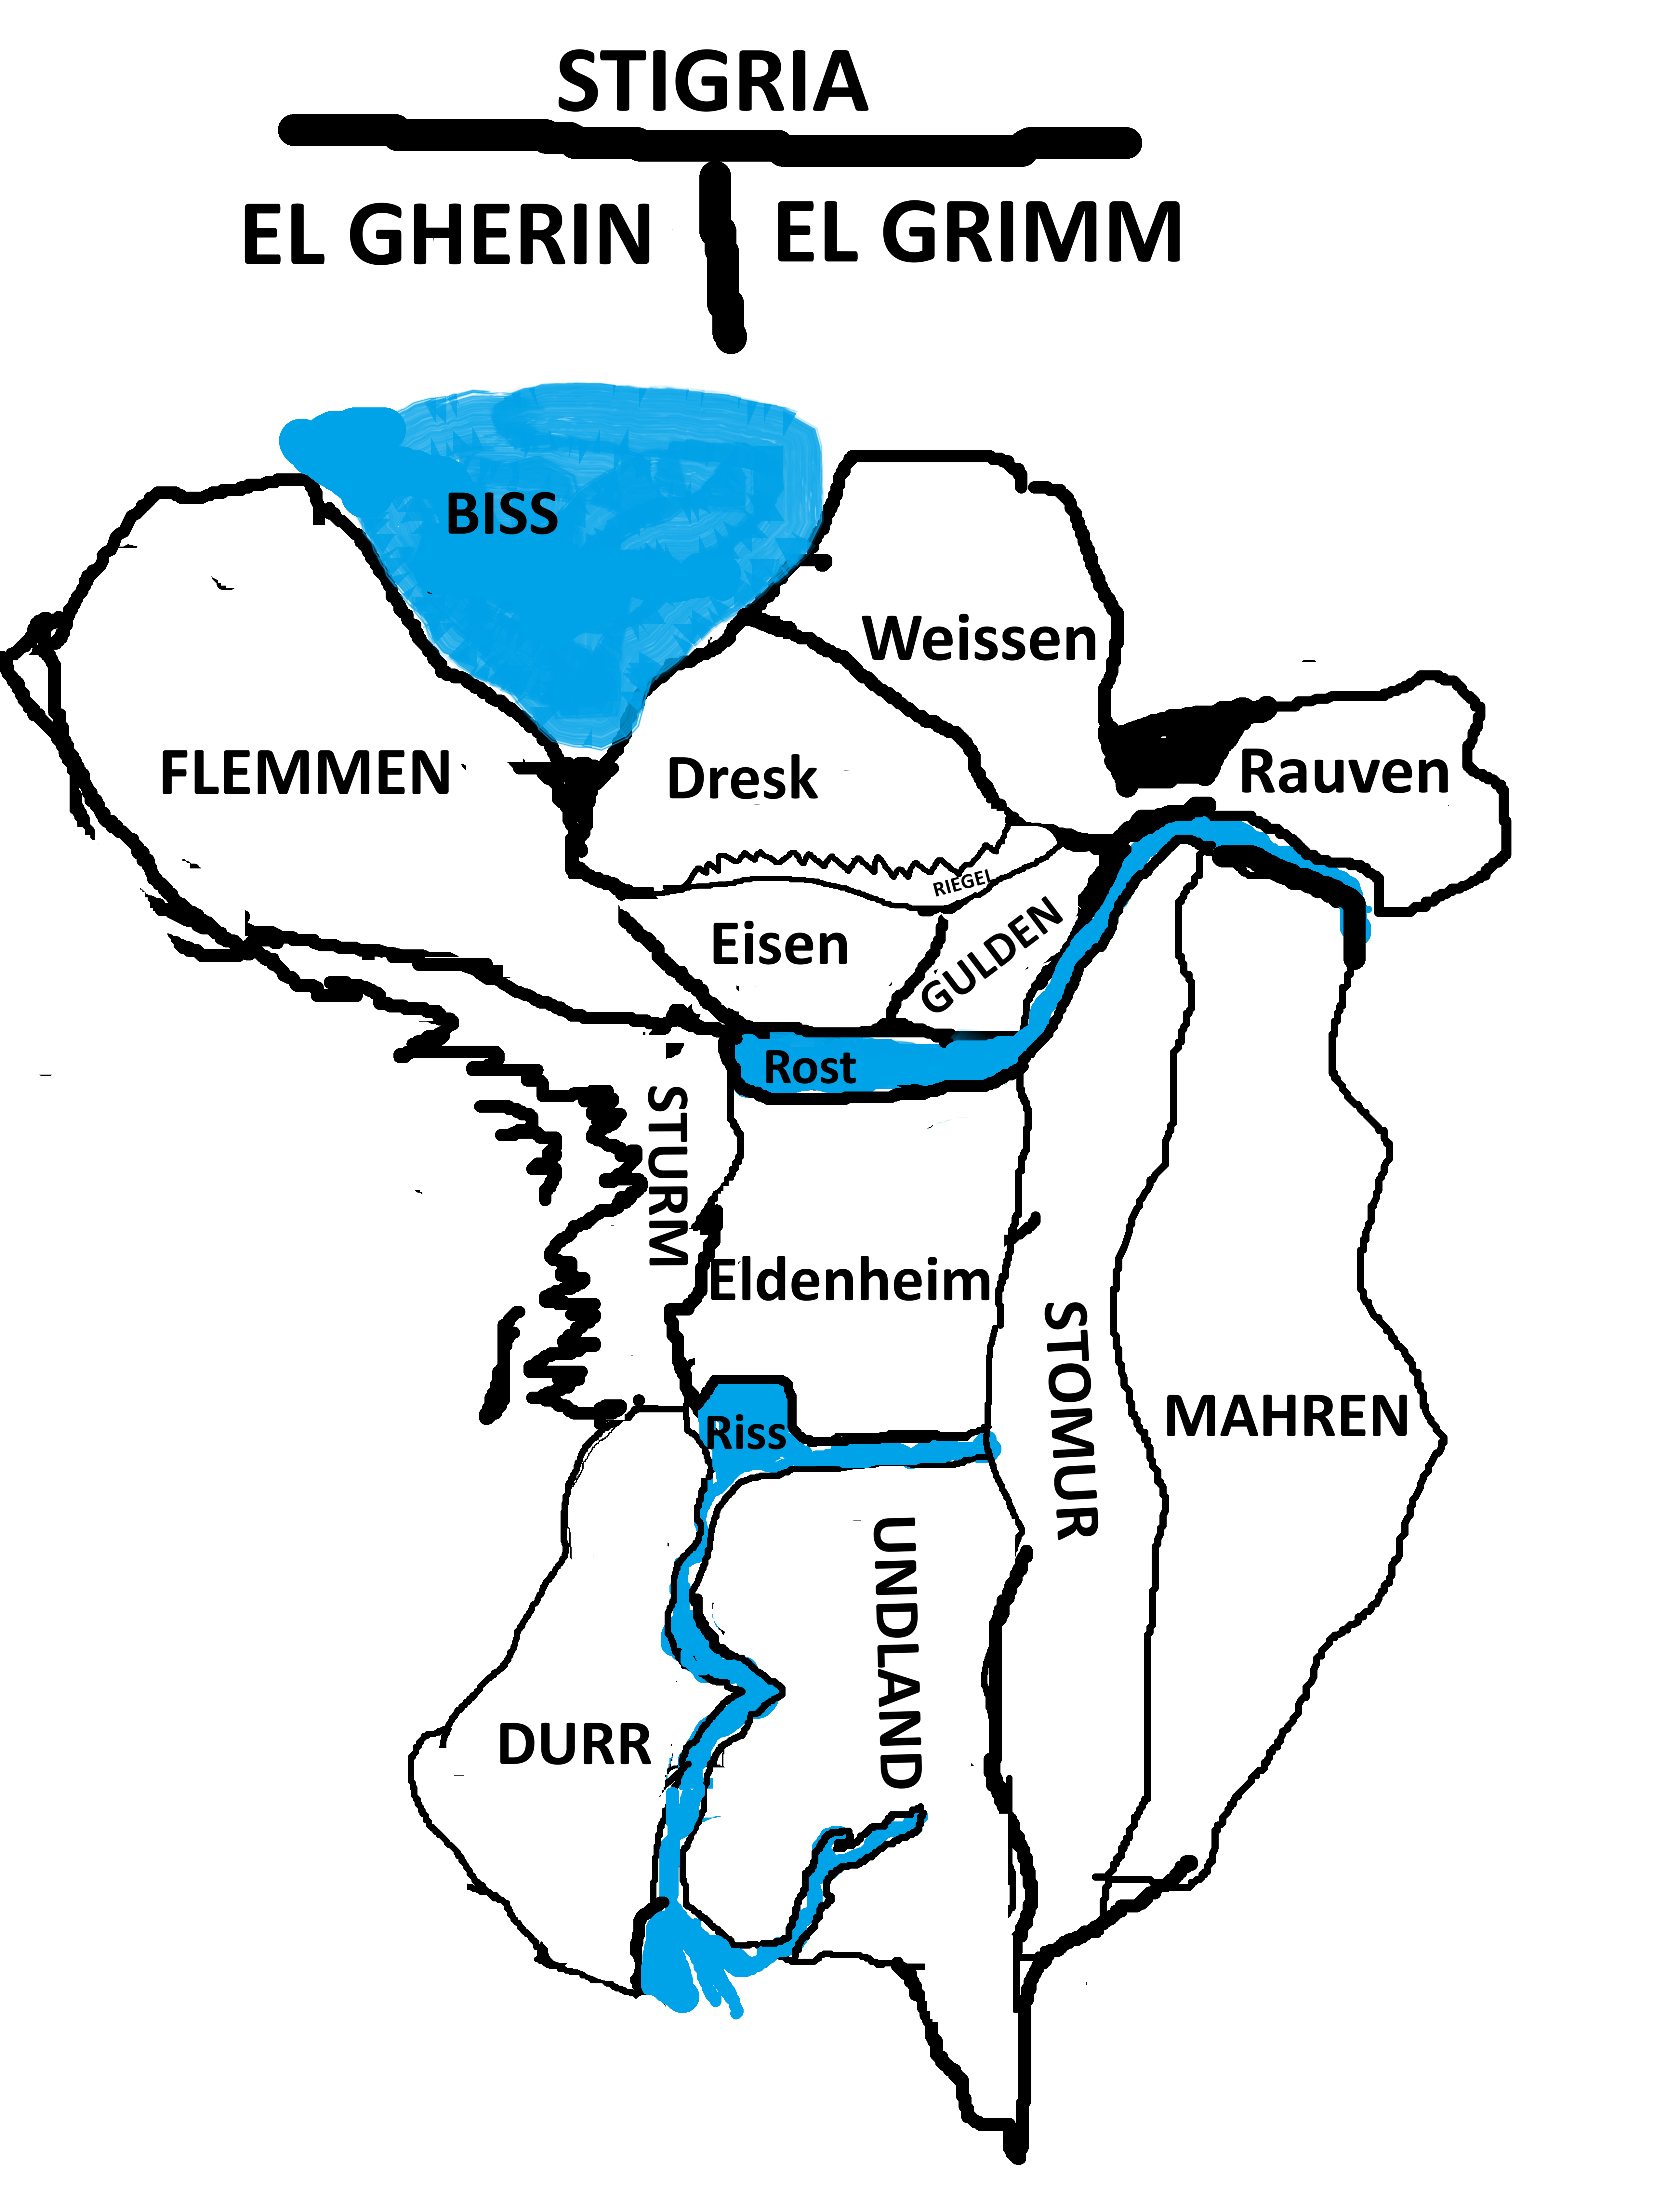
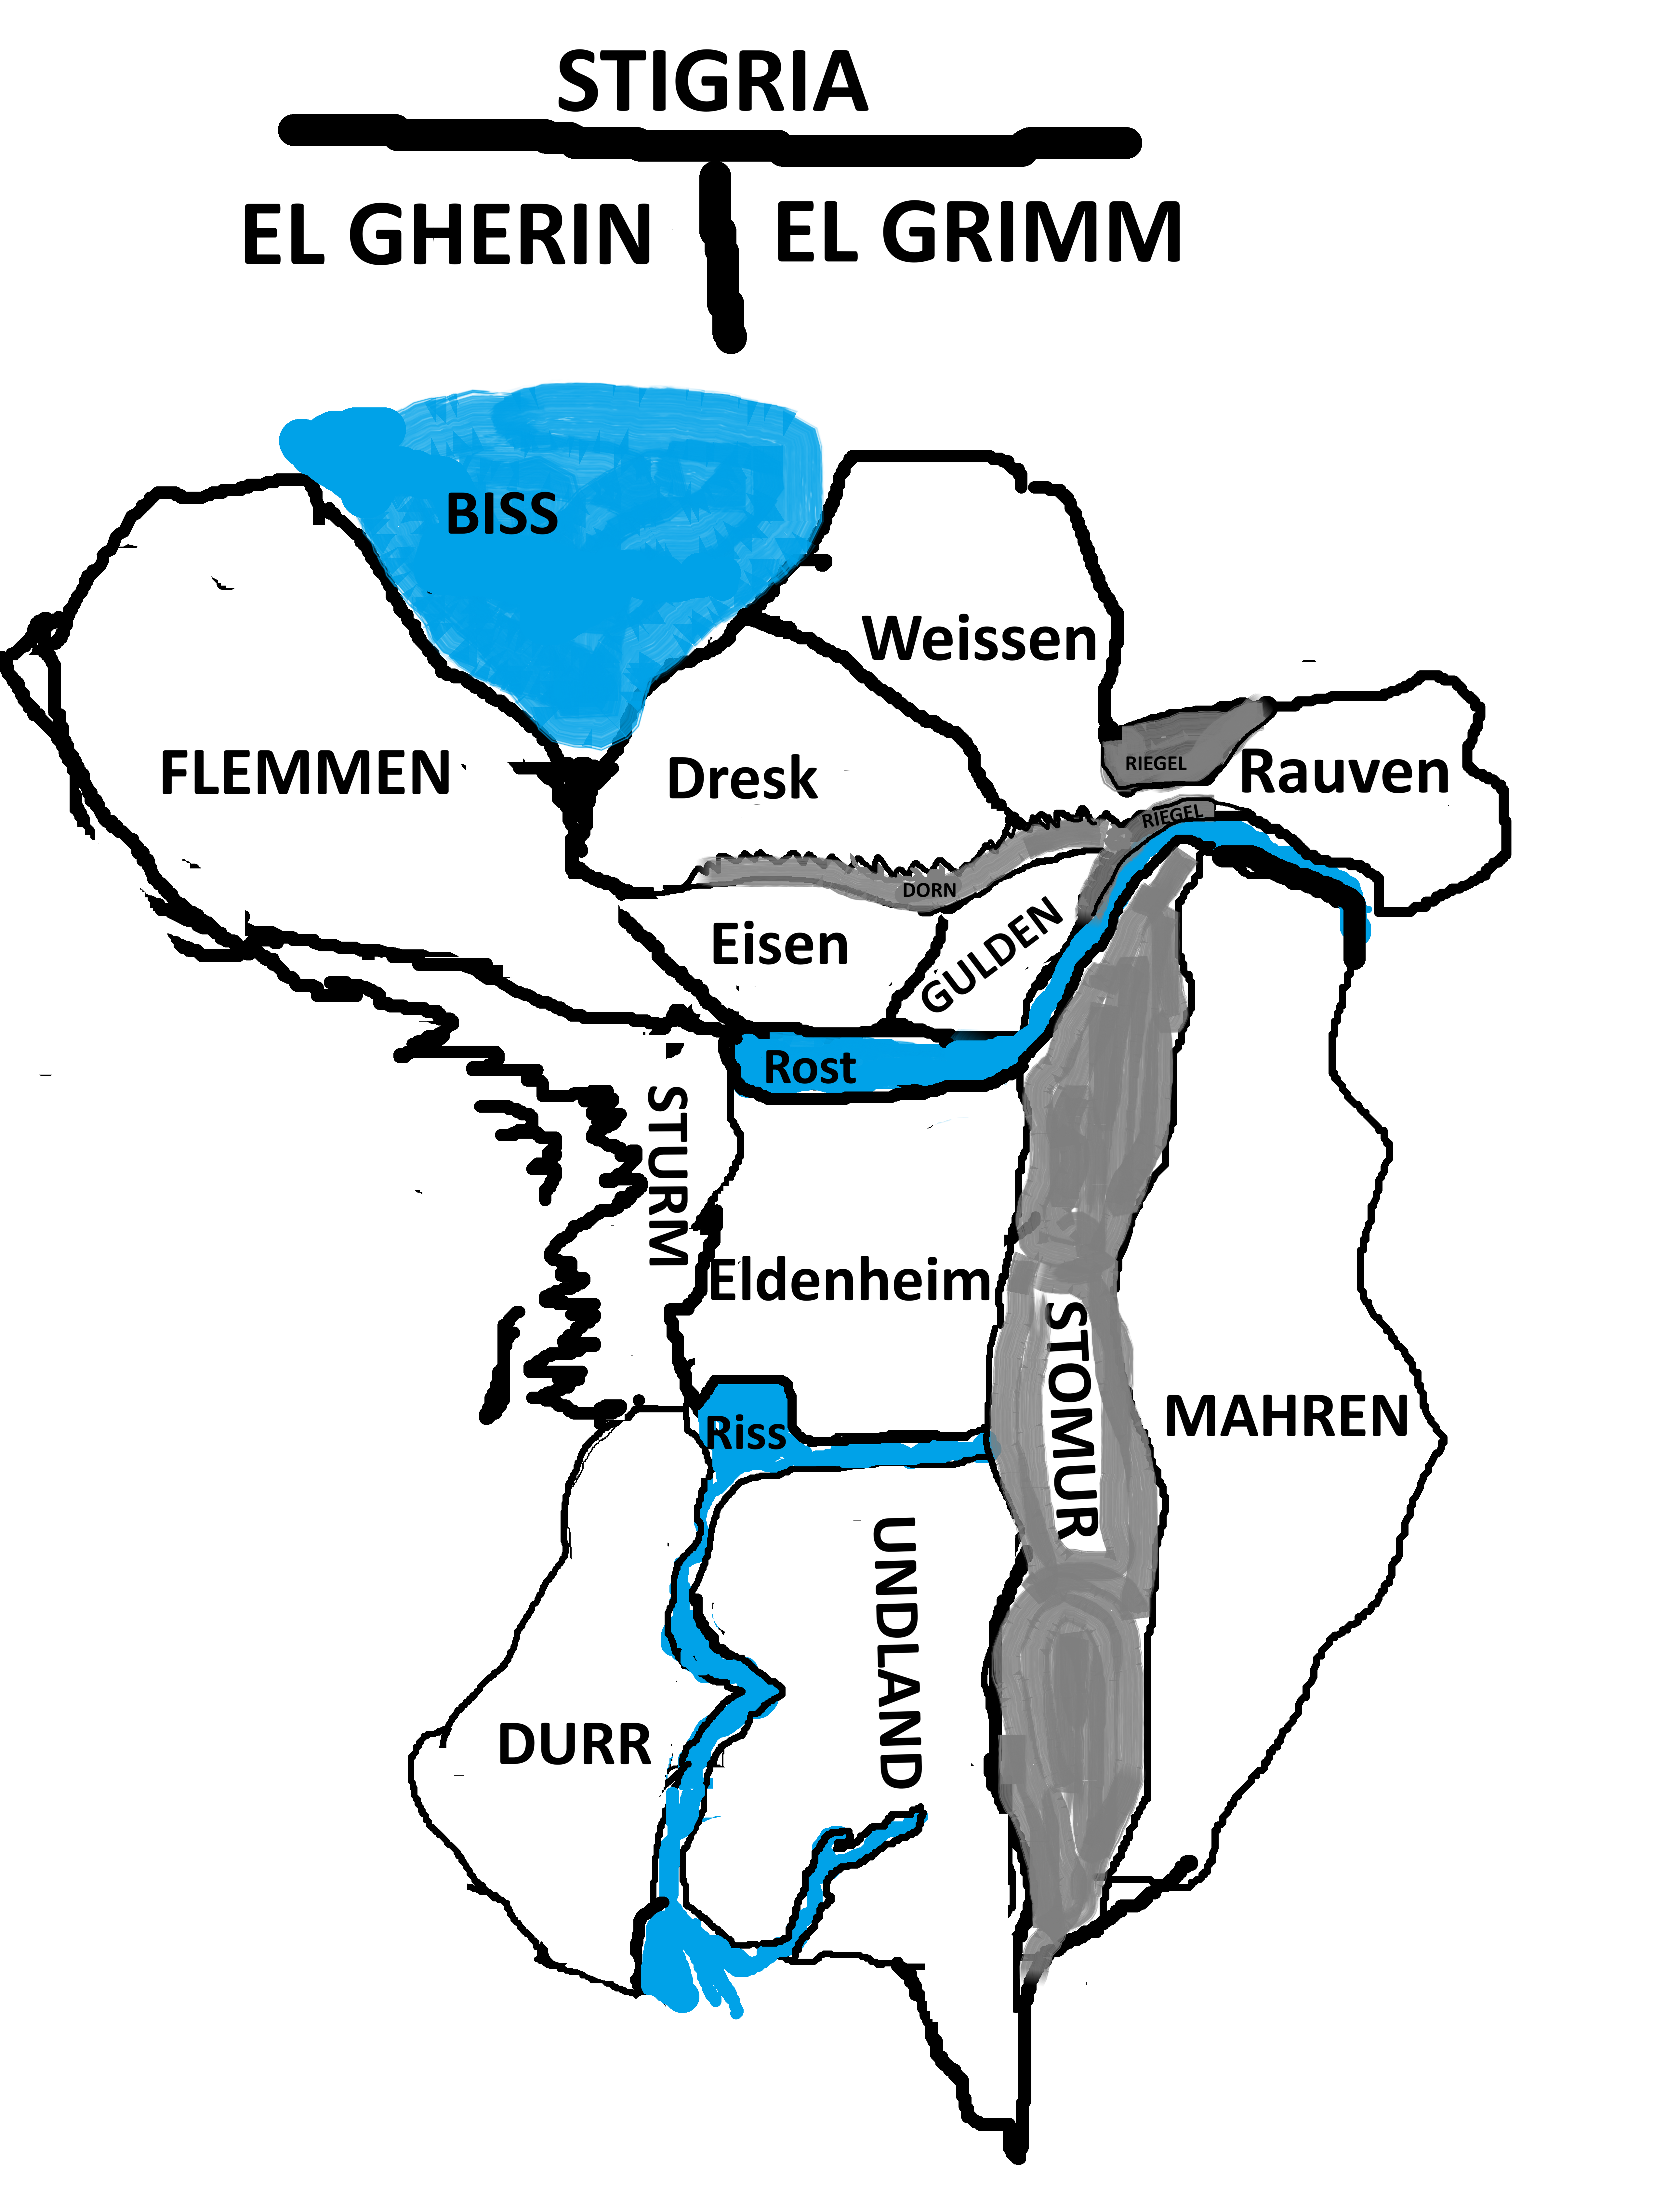
Crónica: El Grimm renace como costa y reino
Por decreto imperial, el nombre de la vasta y sombría región al este de la cordillera Stomur, antes conocida como El Modrig, ha sido cambiado oficialmente a El Grimm. Este topónimo, más acorde con su naturaleza y con la historia de sus habitantes originales, los Gente de la Bruma, se integra ahora en los anales del Imperio. Asimismo, se ha documentado la creación del nuevo reino de Grimm, fusionando las antiguas tierras del Modrig y el territorio de Malakia, marcando un nuevo capítulo en la cartografía y la geopolítica de Stigria.

Changed region(s): [[0.4051, 0.312, 0.7478, 0.9049]]

diff --git a/docs/mundo/stigria/gherin-tablero.md b/docs/mundo/stigria/gherin-tablero.md
@@ -8,21 +8,21 @@ Cada reino ocupa un bloque de celdas (la mayoría 3×3, algunos expandidos o red
 
 ```
        1a  1b  1c │ 2a  2b  2c │ 3a  3b  3c  │  4a   4b   4c  │ 5a  5b  5c
-A1    Fl  Fl  Fl │ Fl  Fl  Fl │ ≈≈  ≈≈  ≈≈  │  Vk   Vk   Es★ │ Mal  Mal  Mod
-A2    Fl  Fl* Fl │ Fl  Fl  Fl │ ≈≈  Pen ≈≈  │  Vk   Vk*  Vk  │ Bra  --   Mod
-A3    Fl  Fl  Fl │ Fl  Fl  Fl │ ≈≈  Pen ≈≈  │  Sd   Sd*  Sd  │ Mal  Mal  Mod
+A1    Fl  Fl  Fl │ Fl  Fl  Fl │ ≈≈  ≈≈  ≈≈  │  Vk   Vk   Es★ │ Mal  Mal  Gri
+A2    Fl  Fl* Fl │ Fl  Fl  Fl │ ≈≈  Pen ≈≈  │  Vk   Vk*  Vk  │ Bra  --   Gri
+A3    Fl  Fl  Fl │ Fl  Fl  Fl │ ≈≈  Pen ≈≈  │  Sd   Sd*  Sd  │ Mal  Mal  Gri
 ──────┼──────────┼───────────┼──────────────┼─────┬───────────┼─────────────
-B1    St  St  St │ Sk  Sk  Sk │ Wf  Wf  Wf  │ Est  Est  Est   │ Mod  Mod  Mod
-B2    St  St* St │ Sk  Sk* Sk │ Wf  Wf* Wf  │ Est  Est  Est   │ Mod  Mod  Mod
-B3    St  St  St │ Sk  Sk  Sk │ Wf  Eld  Dr▲ │ Est  Est  Est   │ Mod  Mod  Mod
+B1    St  St  St │ Sk  Sk  Sk │ Wf  Wf  Wf  │ Est  Est  Est   │ Gri  Gri  Gri
+B2    St  St* St │ Sk  Sk* Sk │ Wf  Wf* Wf  │ Est  Est  Est   │ Gri  Gri  Gri
+B3    St  St  St │ Sk  Sk  Sk │ Wf  Eld  Dr▲ │ Est  Est  Est   │ Gri  Gri  Gri
 ──────┼──────────┼───────────┼──────────────┼─────────────────┼─────────────
-C1    Lm  Lm  Lm │ Vs  Vs  Vs │ Au  Eld  Eld │ Est  Est  Est   │ Mod  Mod  Mod
-C2    Lm  Lm* Lm │ Vs  Vs* Vs │ Eld▼ Eld Eld │ Est  Est  Est   │ Mod  Mod  Mod
-C3    Lm  Lm  Lm │ Vs  Vs  Vs │ Au  Au  Au  │ Est  Est  Est   │ Mod  Mod  Mod
+C1    Lm  Lm  Lm │ Vs  Vs  Vs │ Au  Eld  Eld │ Est  Est  Est   │ Gri  Gri  Gri
+C2    Lm  Lm* Lm │ Vs  Vs* Vs │ Eld▼ Eld Eld │ Est  Est  Est   │ Gri  Gri  Gri
+C3    Lm  Lm  Lm │ Vs  Vs  Vs │ Au  Au  Au  │ Est  Est  Est   │ Gri  Gri  Gri
 ──────┼──────────┼───────────┼──────────────┼─────────────────┼─────────────
-D1    Zf  Zf  Zf │ El  El  El │ Yl  Yl  Yl  │ Est  Est  Est   │ Mod  Mod  Mod
-D2    Zf  Zf* Zf │ El  El* El │ Yl  Yl* Yl  │ Est  Est  Est   │ Mod  Mod  Mod
-D3    Zf  Zf  Zf │ El  El  El │ Yl  Yl  Ka★ │ Est  Est  Est   │ Mod  Mod  Mod
+D1    Zf  Zf  Zf │ El  El  El │ Yl  Yl  Yl  │ Est  Est  Est   │ Gri  Gri  Gri
+D2    Zf  Zf* Zf │ El  El* El │ Yl  Yl* Yl  │ Est  Est  Est   │ Gri  Gri  Gri
+D3    Zf  Zf  Zf │ El  El  El │ Yl  Yl  Ka★ │ Est  Est  Est   │ Gri  Gri  Gri
 ```
 
 | Símbolo | Significado |
@@ -38,7 +38,7 @@ D3    Zf  Zf  Zf │ El  El  El │ Yl  Yl  Ka★ │ Est  Est  Est   │ Mod  M
 | `Pen` | Península septentrional |
 | `--` | Fuera de cuadrícula / sin asignar |
 | `Est` | Cordillera Stomur |
-| `Mod` | El Modrig (mitad oriental maldita) |
+| `Gri` | El Grimm (mitad oriental maldita) |
 | `Bra` | El Bramo (reducto de Rey Podrido) |
 | `Mal` | Malakia (reino histórico partido) |
 
@@ -286,7 +286,7 @@ Bloque: filas B1-D3, columnas 4a-4c (9 celdas, vertical).
 | B1-4c | NE | Grieta del Este | Abismo oriental |
 | B2-4a | O | Laderas de Hierro | Falda occidental (lado Waffengard) |
 | B2-4b | * | Corazón de Stomur | Núcleo de la cordillera |
-| B2-4c | E | Laderas Umbrías | Falda oriental (lado Modrig) |
+| B2-4c | E | Laderas Umbrías | Falda oriental (lado Grimm) |
 | C1-4a | O | Paso de los Mercaderes | Ruta comercial oeste-este |
 | C3-4b | S | Stomur Bajo | Estribaciones meridionales |
 | D3-4c | SE | Raíz Partida | Extremo sureste de la cordillera |
@@ -303,7 +303,7 @@ Bloque: filas A1-A3, columnas 5a-5b (parcial). Al otro lado del Foso.
 | A2-5a | * | El Bramo | Trono de Rey Podrido |
 | A3-5a | S | Malakia Sur | Tierras anegadas |
 
-> Malakia ocupa la franja 5a-5b en filas A1 y A3. El Bramo solo la celda A2-5a. La columna 5c pertenece a El Modrig.
+> Malakia ocupa la franja 5a-5b en filas A1 y A3. El Bramo solo la celda A2-5a. La columna 5c pertenece al Grimm.
 
 ### Protectorados
 
@@ -332,11 +332,11 @@ Bloque: celdas dispersas entre Waffengard, Aurelia y Stomur.
 
 > **Eldengaria original (Eld▼).** Los vestigios de la antigua Eldengard —corazón del Valgard pre-imperial— se conservan como barrio histórico envuelto por la expansión de la capital moderna. Los reyes de los 12 Reinos residen aquí cuando visitan la ciudad.
 
-### El Modrig [Mod]
+### El Grimm [Gri]
 
 Bloque: filas A1-D3, columnas 5a-5c (12 celdas, vertical). Tierra maldita al este de Stomur. Sin detallar en este tablero.
 
-> Ver `docs/mundo/stigria/modrig.md`.
+> Ver `docs/mundo/stigria/grimm.md`.
 
 ---
 

diff --git a/docs/mundo/stigria/grimm.md b/docs/mundo/stigria/grimm.md
@@ -1,0 +1,32 @@
+# El Grimm
+
+## Tipo
+
+Macrorregión oriental de Stigria.
+
+## Ubicación
+
+El Grimm ocupa las tierras situadas al este de Stomur. Comprende **Rauven** al noreste y **Mahren** a lo largo de la gran franja oriental. En el norte, la fractura de Stomur y el curso del Rost forman el Paso del Oriente, que comunica el Grimm con el Gherin.
+
+El Bramo se encuentra en el sector septentrional de esta mitad del continente. Hacia el sur, una costa fragmentada de canales, islotes y fiordos lo comunica con el resto del Grimm.
+
+## Historia antigua
+
+Según la tradición gheran, Ghera y Smürr obligaron a la mayoría de los Grimmen a retirarse hacia estas tierras durante la Gran Devoración. Stomur separó desde entonces el Grimm del Gherin, aunque algunas criaturas permanecieron en el occidente.
+
+Durante el Surgimiento, la sección septentrional de Stomur se fracturó. La abertura separó Rauven de Mahren y permitió que las aguas del Rost alcanzaran el mar oriental.
+
+## Historia posterior
+
+Malakia prosperó posteriormente en tierras del Grimm. Tras el ascenso del Rey Podrido, la Sombra y sus criaturas corrompieron grandes extensiones de la región. El Bramo permanece bajo su dominio y los fiordos fragmentados sirven como vía de tránsito para las criaturas del este.
+
+La **Mørkkyst**, o Costa Negra, es el nombre tradicional de las tierras del Grimm habitadas durante milenios por los Kystvaer antes de su migración hacia el Gherin.
+
+## Referencias
+
+- `docs/mundo/stigria/stigria.md`
+- `docs/mundo/stigria/stomur.md`
+- `docs/mundo/stigria/historia-antigua.md`
+- `docs/mundo/stigria/bramo.md`
+- `docs/mundo/stigria/malakia.md`
+

diff --git a/docs/12-reinos.md b/docs/12-reinos.md
@@ -34,11 +34,11 @@ Descendientes de los Hijos del Sol, los esclavos escapados de tres islas de Astr
 Lysarya · Zephyrya · Vesperya
 
 ### Paso del Oriente (cambiaron a -ria)
-Este del Gherin. Linajes gheran mezclados con otras culturas. Forjados contra las bestias del Modrig. Nombres de sonoridad eslava.
+Este del Gherin. Linajes gheran mezclados con otras culturas. Forjados contra las bestias del Grimm. Nombres de sonoridad eslava.
 Veleskaria · Sindria
 
 ### Tierra de la Bruma (conservan el nombre original)
-Los tres reinos del sur del Gherin. Descendientes de la **Gente de la Bruma** (Kystvaer), el pueblo que durante milenios habitó la **Mørkkyst** (la Costa Negra, el Modrig actual). Expulsados por el despertar del Rey Podrido, huyeron al sur por mar y cruzaron Stomur a pie. Rechazados por los pobladores del centro, se asentaron en el sur, donde fundaron sus tres reinos. Los veranos los llamaron «los del oriente» por estar al este del Estrecho de la Tríada. Su inspiración cultural es nórdica (danesa).
+Los tres reinos del sur del Gherin. Descendientes de la **Gente de la Bruma** (Kystvaer), el pueblo que durante milenios habitó la **Mørkkyst** (la Costa Negra, el Grimm actual). Expulsados por el despertar del Rey Podrido, huyeron al sur por mar y cruzaron Stomur a pie. Rechazados por los pobladores del centro, se asentaron en el sur, donde fundaron sus tres reinos. Los veranos los llamaron «los del oriente» por estar al este del Estrecho de la Tríada. Su inspiración cultural es nórdica (danesa).
 Kyst · Lyng · Bjorn
 
 Los 8 reinos que no son del Valle de Hierro se alzaron contra Grimar Valgard en la **Rebelión del Amanecer** y formaron el **Bloque del Amanecer** durante la guerra. Abandonaron el sufijo -gard al declarar la rebelión —salvo Kyst, Lyng y Bjorn, cuyos nombres originales fueron restaurados tras siglos de conquista—. El cambio no fue uniforme: cada grupo de reinos tuvo su propia transformación del sufijo.
@@ -99,9 +99,9 @@ Cada gobernante porta un título ceremonial vinculado al concepto de su reino. E
 
 ## Los tres reinos de los Gente de la Bruma
 
-Los tres reinos de la Tierra de la Bruma descienden de los **Gente de la Bruma** (Kystvaer), el pueblo que durante milenios habitó la **Mørkkyst** —la Costa Negra, lo que hoy el imperio llama El Modrig—, al este del Stomur.
+Los tres reinos de la Tierra de la Bruma descienden de los **Gente de la Bruma** (Kystvaer), el pueblo que durante milenios habitó la **Mørkkyst** —la Costa Negra, lo que hoy el imperio llamal Grimm—, al este del Stomur.
 
-Nacieron en un paisaje hostil de bruma perpetua, bestias y oscuridad. Pero no lo rechazaron: lo adaptaron. Cuando despertó el **Rey Podrido** —un ser dominado por un Mobius, que mata para extinguir, no para comer—, ese equilibrio se rompió. Huyeron al sur por mar. Las corrientes del **Cayo Negro** los bloquearon. Desembarcaron en la punta sur del Modrig y cruzaron Stomur **a pie** —de ahí su título: los que caminaron la bruma a través de la montaña—. Llegaron al Valle Central del Gherin, pero los pobladores del centro los rechazaron. Se replegaron al sur y fundaron Kyst, Lyng y Bjorn.
+Nacieron en un paisaje hostil de bruma perpetua, bestias y oscuridad. Pero no lo rechazaron: lo adaptaron. Cuando despertó el **Rey Podrido** —un ser dominado por un Mobius, que mata para extinguir, no para comer—, ese equilibrio se rompió. Huyeron al sur por mar. Las corrientes del **Cayo Negro** los bloquearon. Desembarcaron en la punta sur del Grimm y cruzaron Stomur **a pie** —de ahí su título: los que caminaron la bruma a través de la montaña—. Llegaron al Valle Central del Gherin, pero los pobladores del centro los rechazaron. Se replegaron al sur y fundaron Kyst, Lyng y Bjorn.
 
 Cuando los primeros astrianos disidentes —que rechazaban el culto al Dios Negro— llegaron perseguidos, los Gente de la Bruma los acogieron. Ya sabían lo que era un Mobius. Repelieron el ataque y cedieron a los astrianos la península del sureste, donde los ayudaron a levantar **Kalos**. La ciudadela fue sitiada por el Raikim durante siglos. Jamás cayó.
 
@@ -130,7 +130,7 @@ Los tres reinos del Verano descienden de **Suntarys**, la gran ciudadela que los
 ## Clave histórica
 
 - **Suntarys** fue la ciudadela de los Hijos del Sol en la isla de **Alessya** (la Isla Hermosa). Escudo de Kalos contra las peregrinaciones negras astrianas. Destruida por los Valgard en un ataque anunciado; la población ya había evacuado al continente. Los tres reinos del Verano descienden de sus fundadores.
-- **Mørkkyst** es el nombre que los Gente de la Bruma dan al Modrig: la Costa Negra, su hogar ancestral. Allí vivieron en equilibrio con la bruma y las bestias hasta que el despertar del Rey Podrido los forzó a huir.
+- **Mørkkyst** es el nombre que los Gente de la Bruma dan al Grimm: la Costa Negra, su hogar ancestral. Allí vivieron en equilibrio con la bruma y las bestias hasta que el despertar del Rey Podrido los forzó a huir.
 - **Edicto del Amanecer:** escrito por Loryan Solaryss, respuesta al Raikim. Fundamento del Imperio de Dragma.
 - Solaryss hoy es casa noble en Zephyrya, sin corona.
 - 17 Raiks gobernaron Valgard: primero Rudgar, último Grimar (Grimar de Piedra).

diff --git a/docs/mundo/stigria/bramo.md b/docs/mundo/stigria/bramo.md
@@ -4,7 +4,7 @@
 Región. Último reducto de Malakia de la Sombra. Masa de tierra casi aislada al este del Foso de la Calamidad.
 
 ## Ubicación
-Al este del Foso de la Calamidad, separado del resto del continente por el corte que abrieron los Portadores. El Bramo no está completamente desconectado: al norte, un **Istmo del Bramo** —un pequeño hilo de tierra— lo mantiene unido al continente. Al sur, un laberinto de **fiordos fragmentados** lo conecta con **El Modrig** en una costa rota de entradas de mar, acantilados y canales traicioneros.
+Al este del Foso de la Calamidad, separado del resto del continente por el corte que abrieron los Portadores. El Bramo no está completamente desconectado: al norte, un **Istmo del Bramo** —un pequeño hilo de tierra— lo mantiene unido al continente. Al sur, un laberinto de **fiordos fragmentados** lo conecta con **el Grimm** en una costa rota de entradas de mar, acantilados y canales traicioneros.
 
 ## Geografía
 
@@ -15,9 +15,9 @@ El Foso de la Calamidad no es un abismo ni una grieta: es un corte continental, 
 Al norte del corte, la tierra no llegó a partirse del todo. Quedó un pequeño hilo —el **Istmo del Bramo**—, una franja de roca y tierra batida por el oleaje que mantiene El Bramo unido al continente. Es la única conexión terrestre entre el mundo civilizado y el Reino Podrido. La guarnición de Esteria vigila este paso con la máxima prioridad: si algo cruza por el istmo, ya no hay Foso que lo detenga.
 
 ### Los Fiordos Fragmentados
-Al sur de El Bramo, la costa se deshace en un sinfín de fiordos fragmentados: entradas de mar, canales estrechos, islotes rocosos y acantilados que forman un laberinto costero entre El Bramo y El Modrig. Las criaturas del este serpentean entre estos fiordos para alcanzar El Bramo, y desde allí —si el istmo o el Foso lo permiten— amenazar El Gherin.
+Al sur de El Bramo, la costa se deshace en un sinfín de fiordos fragmentados: entradas de mar, canales estrechos, islotes rocosos y acantilados que forman un laberinto costero entre El Bramo y el Grimm. Las criaturas del este serpentean entre estos fiordos para alcanzar El Bramo, y desde allí —si el istmo o el Foso lo permiten— amenazar El Gherin.
 
-Los fiordos son la vía por la que las bestias de El Modrig llegan a El Bramo. La fragmentación del terreno hace imposible fortificar la zona: el enemigo puede aparecer por cualquiera de los cientos de canales.
+Los fiordos son la vía por la que las bestias del Grimm llegan a El Bramo. La fragmentación del terreno hace imposible fortificar la zona: el enemigo puede aparecer por cualquiera de los cientos de canales.
 
 ## Descripción
 El Bramo es el corazón del Reino Podrido. Allí se repliega la sombra cuando la luz verde del Gran Faro de Esteria barre la noche. Allí residen los espectros, los poseídos y las criaturas que obedecen a Rey Podrido.
@@ -25,6 +25,6 @@ El Bramo es el corazón del Reino Podrido. Allí se repliega la sombra cuando la
 Nadie del Gherin ha pisado El Bramo y ha regresado para contarlo.
 
 ## Referencias
-- `docs/mundo/stigria/modrig.md`
+- `docs/mundo/stigria/grimm.md`
 - `docs/mundo/stigria/malakia.md`
 - `docs/mundo/stigria/dragma/esteria/esteria.md`

diff --git a/docs/mundo/stigria/dragma/delfos/delfos.md b/docs/mundo/stigria/dragma/delfos/delfos.md
@@ -4,10 +4,10 @@
 Protectorado del Imperio de Dragma. Isla. Conocida como **Delfos la Solitaria**.
 
 ## Ubicación
-Isla en el mar oriental, al este de El Modrig. Alejada lo suficiente de la Costa Negra para ser segura, lo bastante próxima para que sus habitantes crucen a cazar al continente maldito.
+Isla en el mar oriental, al este del Grimm. Alejada lo suficiente de la Costa Negra para ser segura, lo bastante próxima para que sus habitantes crucen a cazar al continente maldito.
 
 ## Geografía y clima
-Isla tropical. Selvas densas, acantilados de roca oscura, grutas minerales, playas de arena negra. El clima cálido y húmedo contrasta con las tierras frías del norte de Stigria y con la aridez muerta de El Modrig.
+Isla tropical. Selvas densas, acantilados de roca oscura, grutas minerales, playas de arena negra. El clima cálido y húmedo contrasta con las tierras frías del norte de Stigria y con la aridez muerta del Grimm.
 
 ## Historia
 
@@ -43,8 +43,8 @@ Delfos es un refugio. A lo largo de los siglos, la isla ha recibido a quienes hu
 ### Minerales extraños
 Las grutas de Delfos albergan **tierras extrañas** —minerales con propiedades ofensivas contra la Sombra, los espectros y las criaturas del Rey Podrido. A diferencia del **Verilium** de las montañas de Stomur (defensivo, repele Mobius), los minerales de Delfos potencian armas, pociones y ungüentos capaces de dañar activamente a las criaturas del este. Su naturaleza exacta y su procesamiento son secretos celosamente guardados por los Artema.
 
-### Caza en El Modrig
-Equipados con sus propios minerales, los cazadores delfitas son los únicos capaces de adentrarse en **El Modrig** —la Costa Negra— y regresar. Cazan bestias exóticas para obtener pieles, armas de hueso y secreciones utilizadas en pociones y ungüentos. Este comercio es exclusivo de Delfos: nadie más se arriesga a pisar las tierras malditas al este de Stomur.
+### Caza en el Grimm
+Equipados con sus propios minerales, los cazadores delfitas son los únicos capaces de adentrarse en **el Grimm** —la Costa Negra— y regresar. Cazan bestias exóticas para obtener pieles, armas de hueso y secreciones utilizadas en pociones y ungüentos. Este comercio es exclusivo de Delfos: nadie más se arriesga a pisar las tierras malditas al este de Stomur.
 
 ### El ave del Faro
 Delfos es el único lugar del mundo donde habita y se cultiva una especie de ave cuya excreta, procesada mediante un método secreto, produce el material combustible que alimenta la **llama verde del Gran Faro de Esteria**. La luz que quema espectros, poseídos y criaturas controladas por Rey Podrido depende de esta isla remota.

diff --git a/docs/mundo.md b/docs/mundo.md
@@ -61,7 +61,7 @@ Esta reconstrucción representa regiones físicas históricas. No contiene reino
 |--------|------|-------------------|-------|
 | Stomur | Cordillera | Gran barrera entre el Gherin y el Grimm. Continua en el centro y el sur; quebrada en el norte. | [Ver ficha](mundo/stigria/stomur.md) |
 | El Gherin | Macrorregión occidental | División gheran compuesta por el Paso del Oriente y las franjas de Sturm, Eldenheim, Durr y Undland. | [Ver ficha](mundo/stigria/gherin.md) |
-| El Grimm | Macrorregión oriental | Mitad oriental de Stigria. Comprende Rauven al noreste y Mahren al este de Stomur. | [Ver Stigria](mundo/stigria/stigria.md) |
+| El Grimm | Macrorregión oriental | Mitad oriental de Stigria. Comprende Rauven al noreste y Mahren al este de Stomur. | [Ver ficha](mundo/stigria/grimm.md) |
 
 ### Historia
 
@@ -109,9 +109,9 @@ Las entidades políticas documentadas desde esta sección pertenecen a periodos 
 
 **Costas del Verano** (5, 7, 10): Descendientes de los Hijos del Sol, esclavos escapados de tres islas de Astria que se fundieron en un solo pueblo en Suntarys (Alessya). Los tres reinos comparten origen, sangre y lengua. Lideraron la rebelión desde la costa suroeste del Gherin.
 
-**Paso del Oriente** (6, 11): linajes gheran mezclados con otras culturas desde antiguo. Forjados en la lucha contra las bestias que alcanzaban El Bramo desde El Modrig a través de los fiordos fragmentados y amenazaban cruzar el Foso de la Calamidad hacia el Gherin. Montaña e industria en Veleskaria, misticismo y fortaleza en Sindria.
+**Paso del Oriente** (6, 11): linajes gheran mezclados con otras culturas desde antiguo. Forjados en la lucha contra las bestias que alcanzaban El Bramo desde el Grimm a través de los fiordos fragmentados y amenazaban cruzar el Foso de la Calamidad hacia el Gherin. Montaña e industria en Veleskaria, misticismo y fortaleza en Sindria.
 
-**Tierra de la Bruma** (8, 9, 12): Descendientes de la **Gente de la Bruma** (Kystvaer), el pueblo que habitó la Mørkkyst (Costa Negra / Modrig) durante milenios. Expulsados por el despertar del Rey Podrido, cruzaron el Stomur a pie y fundaron Kyst, Lyng y Bjorn en el sur del Gherin. Su inspiración cultural es nórdica (danesa). Kyst es el puerto pesquero de acantilados, Lyng el valle fértil del brezo, Bjorn la fortaleza del bosque y la frontera este contra el Stomur. Los tres reinos existían antes del Raikim: fueron conquistados, no creados. Recuperaron sus nombres originales en la rebelión. Cedieron la península donde se alzó Kalos a los astrianos disidentes.
+**Tierra de la Bruma** (8, 9, 12): Descendientes de la **Gente de la Bruma** (Kystvaer), el pueblo que habitó la Mørkkyst (Costa Negra / Grimm) durante milenios. Expulsados por el despertar del Rey Podrido, cruzaron el Stomur a pie y fundaron Kyst, Lyng y Bjorn en el sur del Gherin. Su inspiración cultural es nórdica (danesa). Kyst es el puerto pesquero de acantilados, Lyng el valle fértil del brezo, Bjorn la fortaleza del bosque y la frontera este contra el Stomur. Los tres reinos existían antes del Raikim: fueron conquistados, no creados. Recuperaron sus nombres originales en la rebelión. Cedieron la península donde se alzó Kalos a los astrianos disidentes.
 
 En la Rebelión del Amanecer, el Valle de Hierro formó el **Bloque de Hierro** (leales a Grimar Valgard). Las Costas del Verano, Paso del Oriente y Tierra de la Bruma formaron el **Bloque del Amanecer** (rebeldes). Todos los reinos del Amanecer abandonaron el sufijo -gard al declarar la rebelión —salvo Kyst, Lyng y Bjorn, que restauraron sus nombres originales previos a la conquista.
 

diff --git a/docs/mundo/stigria/malakia.md b/docs/mundo/stigria/malakia.md
@@ -6,7 +6,7 @@ Reino histórico. Hoy: región maldita.
 ## Historia
 
 ### Malakia (Edad de los Mil Reinos)
-Malakia fue uno de los pocos reinos estables de la Edad de los Mil Reinos. Durante siglos prosperó en El Modrig bajo el gobierno de la dinastía Ormur.
+Malakia fue uno de los pocos reinos estables de la Edad de los Mil Reinos. Durante siglos prosperó en el Grimm bajo el gobierno de la dinastía Ormur.
 
 ### La caída
 En la parte más oriental de Malakia, casi rozando la Costa Negra, un joven Portador tocó al Mobius de Stigria —una entidad que llevaba años prisionera en las fauces de la montaña—. Por acción u omisión, por voluntad o accidente, el joven y el Mobius se fundieron. Nació **Rey Podrido**.
@@ -19,11 +19,11 @@ Tras años de guerra, la resistencia liderada por Lux Terin y Rudgar Valgard log
 - **Malakia Oriental** (más allá del Foso): reducto de la sombra, conocida desde entonces como **Malakia de la Sombra** o el **Reino Podrido**. Su núcleo actual es El Bramo, una masa de tierra casi aislada al este del Foso.
 - **Malakia Occidental** (del lado del Gerin): refundada por sus nobles, con el tiempo cambiaría su nombre a **Sindria**.
 
-Al sur de El Bramo, la costa se deshace en un sinfín de **fiordos fragmentados**: entradas de mar, canales e islotes que forman un laberinto entre El Bramo y El Modrig. Esa costa rota es la vía por la que las criaturas del este serpentean para alcanzar El Bramo, y desde allí amenazar El Gerin por el istmo o el Foso.
+Al sur de El Bramo, la costa se deshace en un sinfín de **fiordos fragmentados**: entradas de mar, canales e islotes que forman un laberinto entre El Bramo y el Grimm. Esa costa rota es la vía por la que las criaturas del este serpentean para alcanzar El Bramo, y desde allí amenazar El Gerin por el istmo o el Foso.
 
 ## Referencias
 - `docs/mundo/stigria/stomur.md`
-- `docs/mundo/stigria/modrig.md`
+- `docs/mundo/stigria/grimm.md`
 - `docs/mundo/stigria/bramo.md`
 - `docs/mundo/stigria/dragma/sindria/sindria.md`
 - `docs/mundo/stigria/dragma/esteria/esteria.md`

diff --git a/docs/mundo/stigria/dragma/bjorn/bjorn.md b/docs/mundo/stigria/dragma/bjorn/bjorn.md
@@ -28,13 +28,13 @@ El título es memoria y promesa. Memoria del bosque inmenso que cubría Bjorn an
 **Tierra de la Bruma.** El más oriental y el más grande en extensión de los tres reinos de los Caminantes de la Bruma, al sur del Gherin. Comparte frontera terrestre con Kyst al oeste y con la cordillera Stomur al este. Kalos ocupa una península en su extremo sureste. Nombres de sonoridad nórdica (convención de escritura, no cultura del mundo).
 
 ## Origen
-Bjorn es uno de los tres reinos fundados por la **Gente de la Bruma** (Kystvaer), el pueblo que durante milenios habitó la **Mørkkyst** —la Costa Negra, lo que hoy el imperio llama El Modrig—, al este de la cordillera Stomur.
+Bjorn es uno de los tres reinos fundados por la **Gente de la Bruma** (Kystvaer), el pueblo que durante milenios habitó la **Mørkkyst** —la Costa Negra, lo que hoy el imperio llamal Grimm—, al este de la cordillera Stomur.
 
 Los Kystvaer nacieron en un paisaje hostil: bruma perpetua, bestias, oscuridad. Pero no lo rechazaron. Lo adaptaron. Aprendieron a vivir donde todo quería matarlos. Generaciones enteras forjaron ritos, armas, casas y costumbres en equilibrio con aquella tierra.
 
 Cuando despertó **Rey Podrido** —algo más que una bestia, una criatura poseída por un Mobius, que no mata para comer sino para extinguir—, ese equilibrio se rompió. Ya no se podía adaptar. Huyeron.
 
-Navegaron al sur por mar hasta que las corrientes del **Cayo Negro** los bloquearon. Desembarcaron en la punta sur del Modrig y cruzaron Stomur **a pie** —de ahí su título: los que caminaron la bruma a través de la montaña—. Llegaron al Valle Central del Gherin, pero los pobladores del centro los rechazaron. Se replegaron al sur y allí fundaron Kyst, Lyng y Bjorn.
+Navegaron al sur por mar hasta que las corrientes del **Cayo Negro** los bloquearon. Desembarcaron en la punta sur del Grimm y cruzaron Stomur **a pie** —de ahí su título: los que caminaron la bruma a través de la montaña—. Llegaron al Valle Central del Gherin, pero los pobladores del centro los rechazaron. Se replegaron al sur y allí fundaron Kyst, Lyng y Bjorn.
 
 Cuando los primeros astrianos disidentes —que rechazaban el culto al Dios Negro— llegaron perseguidos a las costas del Gherin, no pudieron entrar por el Verano, entonces conocido como la **Costa Desolada**. Siguieron al este y encontraron en los Kystvaer refugio. Los Caminantes de la Bruma ya habían luchado contra un ser dominado por un Mobius y conocían el peligro del culto. Repelieron el ataque y cedieron a los astrianos la península del sureste, donde los ayudaron a levantar **Kalos**.
 

diff --git a/docs/mundo/stigria/dragma/dragma.md b/docs/mundo/stigria/dragma/dragma.md
@@ -28,7 +28,7 @@ El Stamengerin es la única institución con autoridad para modificar esta estru
 | Protectorados con consejo | **Gran Consejo** | Ejemplo: Kalos. |
 | Protectorado de Esteria | **Señor del Faro** | Custodio del Gran Faro y de la frontera oriental. |
 | Territorios de ultramar | **Príncipe Regente** | Salvo Delfos. |
-| Delfos | **Regente** (Casa Artema) | Isla al este, frente al Modrig. Gobernada por la Casa Artema desde la Edad de los Mil Reinos. |
+| Delfos | **Regente** (Casa Artema) | Isla al este, frente al Grimm. Gobernada por la Casa Artema desde la Edad de los Mil Reinos. |
 | Tierras intermedias | **Gran Señor de los Caminos** | Administra todo lo que sobra donde se pueda pisar. |
 
 ## Los 12 Reinos
@@ -56,7 +56,7 @@ El Stamengerin es la única institución con autoridad para modificar esta estru
 | 2 | Esteria | Ciudad fortaleza | Señor del Faro | Al borde del Foso de la Calamidad. Primera línea contra Rey Podrido. Sindria reclama su territorio. |
 | 3 | Ishbaal | Territorio de ultramar | Príncipe Regente | Isla al noroeste. |
 | 4 | Alessya | Protectorado insular | Príncipe Guardián | Isla al suroeste. Cuna de los Hijos del Sol. Ruinas de Suntarys. Principado rico e inalienable. |
-| 5 | Delfos | Territorio de ultramar | Regente (Casa Artema) | Isla tropical frente al Modrig. Gobernada por la Casa Artema. Los Artema portan en secreto sangre Mormund desde el exilio de Mijail. |
+| 5 | Delfos | Territorio de ultramar | Regente (Casa Artema) | Isla tropical frente al Grimm. Gobernada por la Casa Artema. Los Artema portan en secreto sangre Mormund desde el exilio de Mijail. |
 | 6 | Lorka | Territorio de ultramar | Príncipe Regente | Isla al norte de Ishbaal. |
 | 7 | Paicel | Territorio de ultramar | Príncipe Regente | Isla al sureste de Delfos. |
 

diff --git a/docs/mundo/stigria/dragma/kyst/kyst.md b/docs/mundo/stigria/dragma/kyst/kyst.md
@@ -26,13 +26,13 @@ Pendiente
 **Tierra de la Bruma.** El más costero de los tres reinos de la Gente de la Bruma, al sur del Gherin. Acantilados al oeste que dan al Estrecho de la Tríada; su costa real y sus puertos se abren al este, lindando con Bjorn. Nombres de sonoridad nórdica (convención de escritura, no cultura del mundo).
 
 ## Origen
-Kyst es uno de los tres reinos fundados por la **Gente de la Bruma** (Kystvaer), el pueblo que durante milenios habitó la **Mørkkyst** —la Costa Negra, lo que hoy el imperio llama El Modrig—, al este de la cordillera Stomur.
+Kyst es uno de los tres reinos fundados por la **Gente de la Bruma** (Kystvaer), el pueblo que durante milenios habitó la **Mørkkyst** —la Costa Negra, lo que hoy el imperio llamal Grimm—, al este de la cordillera Stomur.
 
 Los Kystvaer nacieron en un paisaje hostil: bruma perpetua, bestias, oscuridad. Pero no lo rechazaron. Lo adaptaron. Aprendieron a vivir donde todo quería matarlos. Generaciones enteras forjaron ritos, armas, casas y costumbres en equilibrio con aquella tierra.
 
 Cuando despertó **Rey Podrido** —algo más que una bestia, una criatura poseída por un Mobius, que no mata para comer sino para extinguir—, ese equilibrio se rompió. Ya no se podía adaptar. Huyeron.
 
-Navegaron al sur por mar hasta que las corrientes del **Cayo Negro** los bloquearon. Desembarcaron en la punta sur del Modrig y cruzaron Stomur **a pie** —caminaron la bruma a través de la montaña—. Llegaron al Valle Central del Gherin, pero los pobladores del centro los rechazaron. Se replegaron al sur y allí fundaron Kyst, Lyng y Bjorn.
+Navegaron al sur por mar hasta que las corrientes del **Cayo Negro** los bloquearon. Desembarcaron en la punta sur del Grimm y cruzaron Stomur **a pie** —caminaron la bruma a través de la montaña—. Llegaron al Valle Central del Gherin, pero los pobladores del centro los rechazaron. Se replegaron al sur y allí fundaron Kyst, Lyng y Bjorn.
 
 Cuando los primeros astrianos disidentes —que rechazaban el culto al Dios Negro— llegaron perseguidos a las costas del Gherin, no pudieron entrar por el Verano, entonces conocido como la **Costa Desolada**. Siguieron al este y encontraron en los Kystvaer refugio. La Gente de la Bruma ya había luchado contra un ser dominado por un Mobius y conocía el peligro del culto. Repelieron el ataque y cedieron a los astrianos la península del sureste, donde los ayudaron a levantar **Kalos**.
 

diff --git a/docs/mundo/stigria/dragma/lyng/lyng.md b/docs/mundo/stigria/dragma/lyng/lyng.md
@@ -28,13 +28,13 @@ El título tiene origen en la posición central de Lyng: el reino más cercano a
 **Tierra de la Bruma.** El corazón agrícola de los Caminantes de la Bruma, al sur del Gherin. Al norte de Kyst y Bjorn, limitando al norte con el Gran Valle y Eldengaria. Nombres de sonoridad nórdica (convención de escritura, no cultura del mundo).
 
 ## Origen
-Lyng es uno de los tres reinos fundados por la **Gente de la Bruma** (Kystvaer), el pueblo que durante milenios habitó la **Mørkkyst** —la Costa Negra, lo que hoy el imperio llama El Modrig—, al este de la cordillera Stomur.
+Lyng es uno de los tres reinos fundados por la **Gente de la Bruma** (Kystvaer), el pueblo que durante milenios habitó la **Mørkkyst** —la Costa Negra, lo que hoy el imperio llamal Grimm—, al este de la cordillera Stomur.
 
 Los Kystvaer nacieron en un paisaje hostil: bruma perpetua, bestias, oscuridad. Pero no lo rechazaron. Lo adaptaron. Aprendieron a vivir donde todo quería matarlos. Generaciones enteras forjaron ritos, armas, casas y costumbres en equilibrio con aquella tierra.
 
 Cuando despertó **Rey Podrido** —algo más que una bestia, una criatura poseída por un Mobius, que no mata para comer sino para extinguir—, ese equilibrio se rompió. Ya no se podía adaptar. Huyeron.
 
-Navegaron al sur por mar hasta que las corrientes del **Cayo Negro** los bloquearon. Desembarcaron en la punta sur del Modrig y cruzaron Stomur **a pie** —de ahí su título: los que caminaron la bruma a través de la montaña—. Llegaron al Valle Central del Gherin, pero los pobladores del centro los rechazaron. Se replegaron al sur y allí fundaron Kyst, Lyng y Bjorn.
+Navegaron al sur por mar hasta que las corrientes del **Cayo Negro** los bloquearon. Desembarcaron en la punta sur del Grimm y cruzaron Stomur **a pie** —de ahí su título: los que caminaron la bruma a través de la montaña—. Llegaron al Valle Central del Gherin, pero los pobladores del centro los rechazaron. Se replegaron al sur y allí fundaron Kyst, Lyng y Bjorn.
 
 Cuando los primeros astrianos disidentes —que rechazaban el culto al Dios Negro— llegaron perseguidos a las costas del Gherin, no pudieron entrar por el Verano, entonces conocido como la **Costa Desolada**. Siguieron al este y encontraron en los Kystvaer refugio. Los Caminantes de la Bruma ya habían luchado contra un ser dominado por un Mobius y conocían el peligro del culto. Repelieron el ataque y cedieron a los astrianos la península del sureste, donde los ayudaron a levantar **Kalos**.
 

diff --git a/docs/casas/artema.md b/docs/casas/artema.md
@@ -14,7 +14,7 @@
 
 ## Historia y descripción
 
-Casa gobernante del protectorado de Delfos desde la Edad de los Mil Reinos. El navegante elyrio Artemis descubrió la isla tropical en el mar oriental, frente al Modrig. Según la costumbre de aquella era, su nombre se convirtió en el de la casa que gobernaría la isla. Delfos fue incorporada como protectorado imperial durante la dinastía Amschel.
+Casa gobernante del protectorado de Delfos desde la Edad de los Mil Reinos. El navegante elyrio Artemis descubrió la isla tropical en el mar oriental, frente al Grimm. Según la costumbre de aquella era, su nombre se convirtió en el de la casa que gobernaría la isla. Delfos fue incorporada como protectorado imperial durante la dinastía Amschel.
 
 Los Artema portan en secreto sangre Mormund desde que Mijail Mormund —condenado a muerte públicamente por el asesinato de su hermana Ilena— fue exiliado en secreto a Delfos por su padre Godric. Mijail desposó a una hija de la casa y su sangre Mormund se fusionó con el linaje isleño. Han transcurrido aproximadamente mil seiscientos años; la verdad ha perdido todo peso político, aunque es conocida por la Dex Tábura y las casas Amschel y Pavel.
 